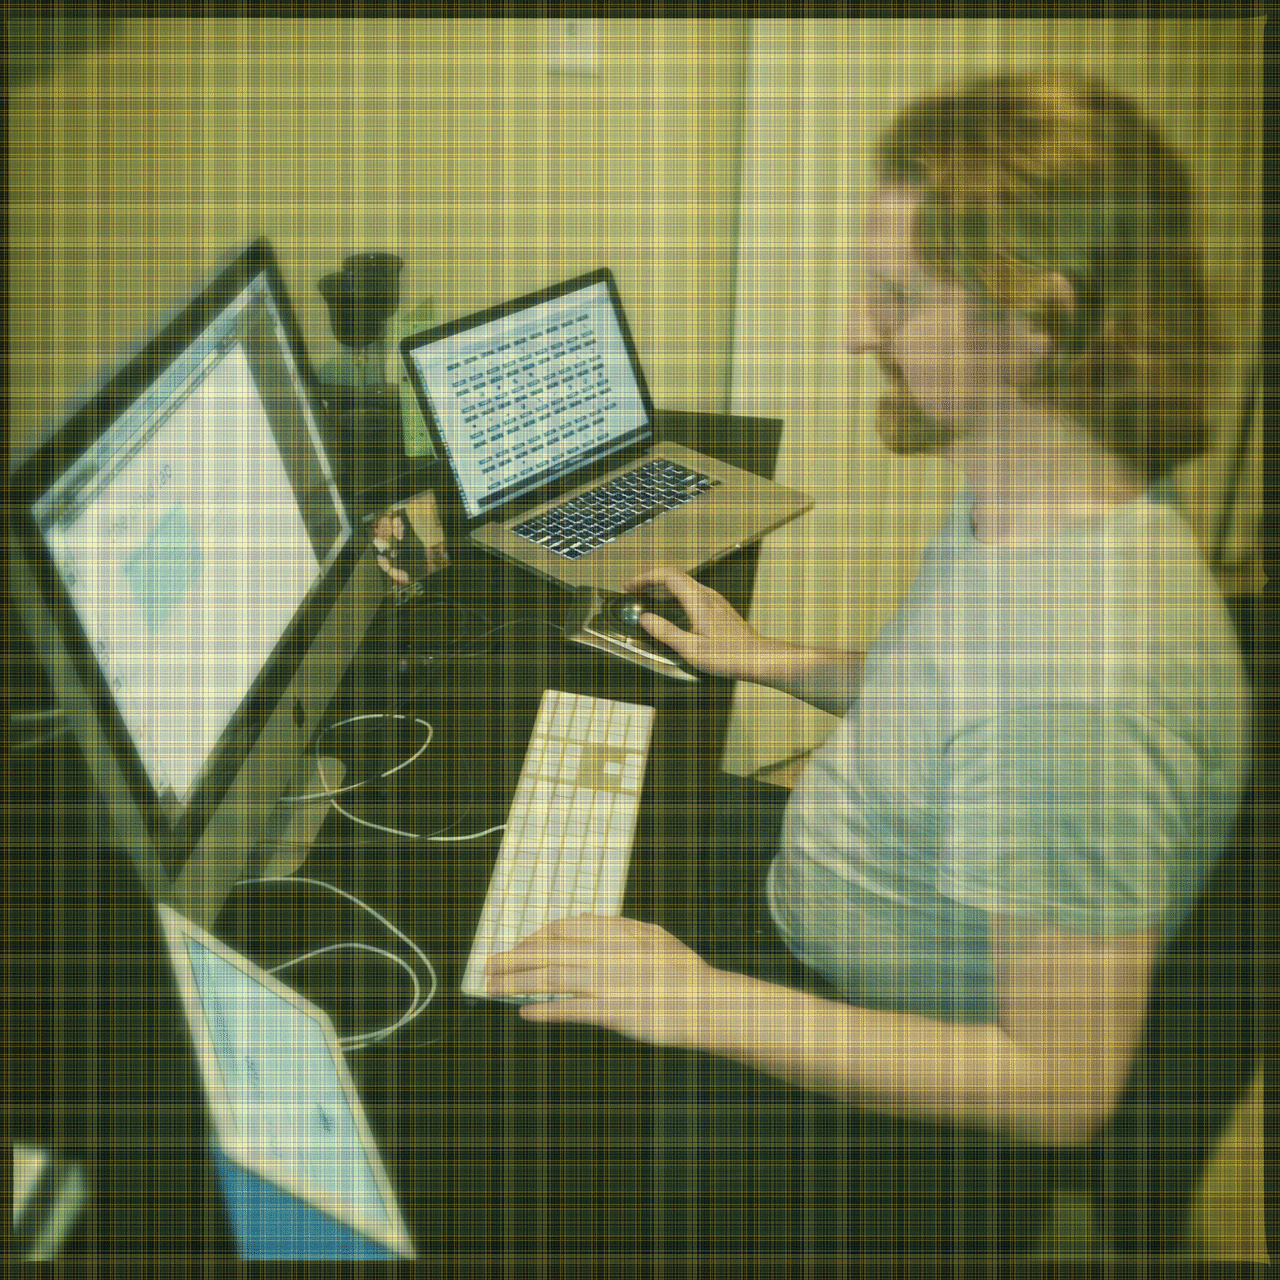
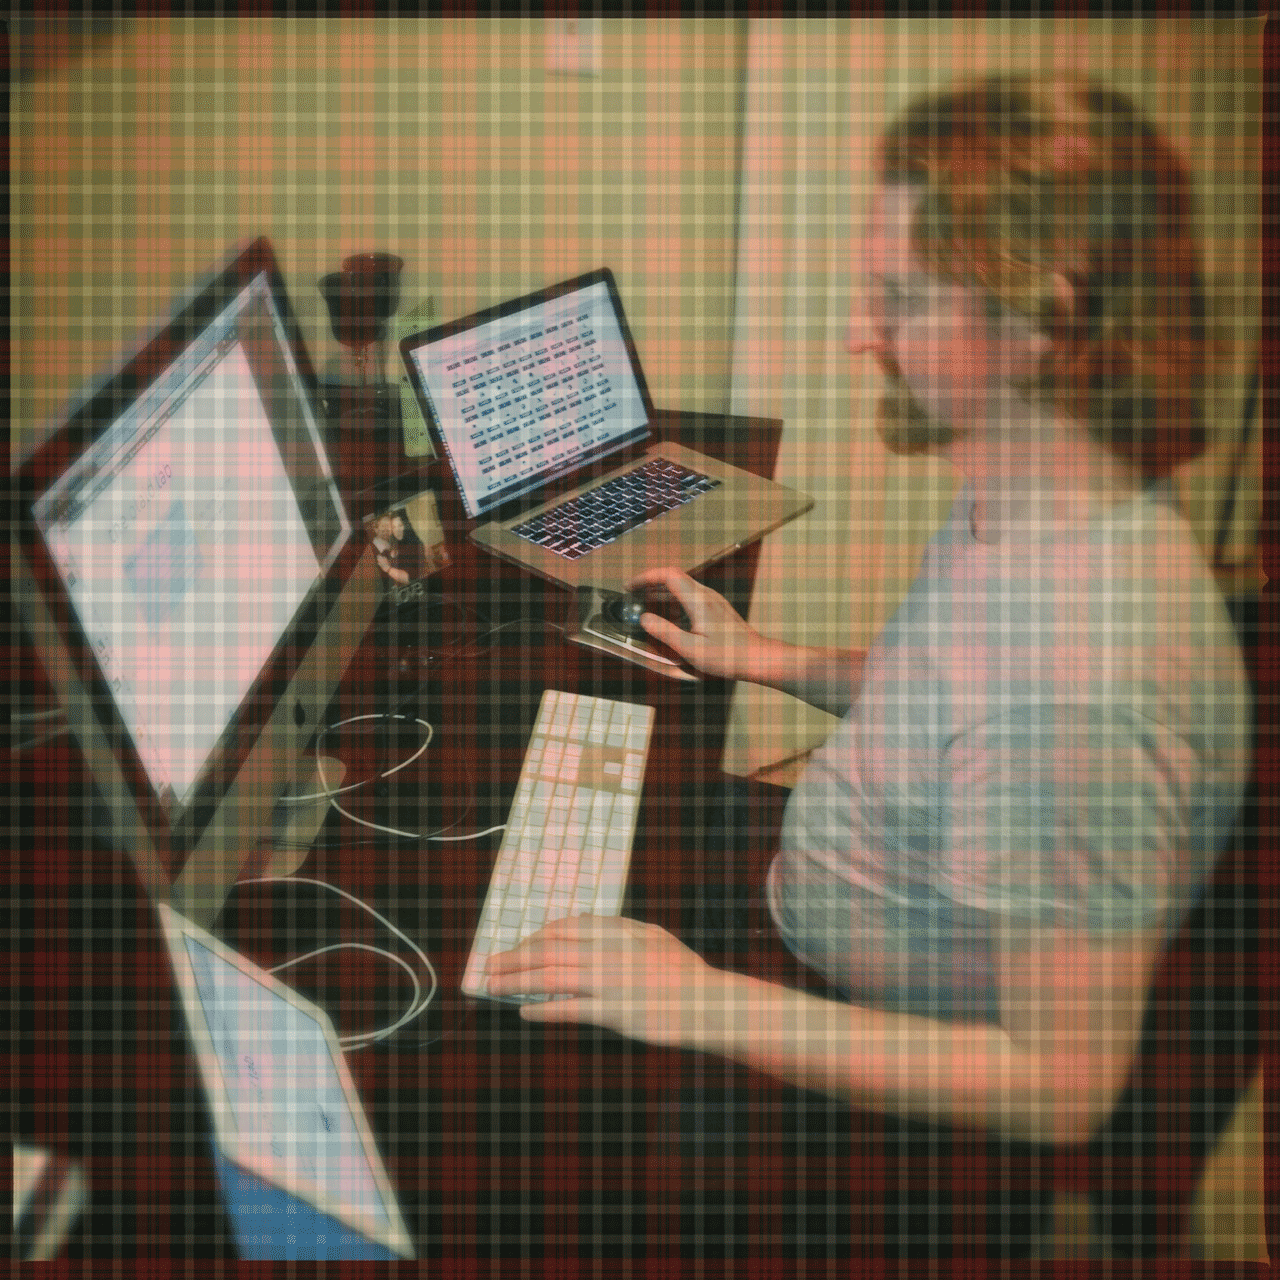
redder plaid, copy changes

diff --git a/public_html/theplaidlab/public/stylesheets/master.css b/public_html/theplaidlab/public/stylesheets/master.css
@@ -2,11 +2,11 @@ html,body,div,span,applet,object,iframe,h1,h2,h3,h4,h5,h6,p,blockquote,pre,a,abb
 article,aside,details,figcaption,figure,footer,header,hgroup,main,menu,nav,section{display:block}
 body{background:#eee url("/images/domAtDesk.png") top center no-repeat fixed}
 main{font-family:"myriad-pro","Arial",sans-serif;font-size:1rem;line-height:1.5;margin:16px auto;max-width:94%;padding:0;width:64em;}
-main h1,main .h1{display:inline-block;font-family:"ff-cocon-web-pro","Helvetica",sans-serif;font-size:5rem;line-height:1.5;margin:.446em 0;}
-main h2,main .h2{font-family:ff-cocon-web-pro;font-size:2rem;line:height 1;margin:0 0 .809em 0;}
-main h3,main .h3{font-size:1.125rem;line-height:1;margin:1.211em 0;}
-main h4,main .h4{font-size:1rem;margin:1.125em 0;}
-main p,main .p{font-size:1rem;line-height:1.5;margin:0 0 1.362em 0;}
+main h1,main .h1{display:inline-block;font-family:"ff-cocon-web-pro","Helvetica",sans-serif;font-size:80px;font-size:5rem;line-height:1.5;margin:.446em 0;}
+main h2,main .h2{font-family:ff-cocon-web-pro;font-size:32px;font-size:2rem;line:height 1;margin:0 0 .809em 0;}
+main h3,main .h3{font-size:18px;font-size:1.125rem;line-height:1;margin:1.211em 0;}
+main h4,main .h4{font-size:16px;font-size:1rem;margin:1.125em 0;}
+main p,main .p{font-size:16px;font-size:1rem;line-height:1.5;margin:0 0 1.362em 0;}
 main dt,main .dt{font-weight:bold}
 main h1,main h2,main h3,main .leader{text-rendering:optimizeLegibility}
 .intro{margin-bottom:0}
@@ -18,18 +18,19 @@ main h1,main h2,main h3,main .leader{text-rendering:optimizeLegibility}
 #weeMobileContent{display:none}
 .contentColumn,.contentCallout{background-color:#ddd;display:inline-block;opacity:.9;filter:alpha(opacity=90);-ms-filter:"progid:DXImageTransform.Microsoft.Alpha(Opacity=90)";padding:1.362em 2.129%;vertical-align:top}
 .contentColumn{margin-right:6.614%;width:42.578%;}
-.contentColumn .leader{font-size:1.187rem;line-height:1.5;margin:0 0 1.362em 0;}
+.contentColumn .leader{font-size:19px;font-size:1.187rem;line-height:1.5;margin:0 0 1.362em 0;}
 .contentCallout{width:38.198%;}
 .webFormula{border:solid 2px #000;margin-top:15em;}
 .webFormula dd{margin-left:10.712%;}
 .behindTheCurtain,.currentExperiments,.portfolio{background-color:#ddd;opacity:.9;filter:alpha(opacity=90);-ms-filter:"progid:DXImageTransform.Microsoft.Alpha(Opacity=90)";margin:4.235em 0;padding:1.362em 2.129%;}
+.skillBucket{margin-top:4.6em}
 .portfolio ul,.portfolio .ul{margin:1.362em 0 1.362em 0;}
 .portfolio ul li,.portfolio .ul li,.portfolio ul .li,.portfolio .ul .li{list-style-type:disc;margin-left:4.859%;}
-.portfolio .nestedList{font-size:.875rem;margin:0;}
+.portfolio .nestedList{font-size:14px;font-size:.875rem;margin:0;}
 .portfolio .nestedList .nestedlistItem{margin-left:6.62%;}
 *[data-module="slideshow"] .mobileNav{display:none}
 *[data-module="slideshow"] .portfolioHeading,*[data-module="slideshow"] .desktopNav{display:inline-block}
-*[data-module="slideshow"] .desktopNav{text-align:right;width:81.649%;}
+*[data-module="slideshow"] .desktopNav{text-align:right;width:75%}
 *[data-module="slideshow"] *[data-control="stage"]{display:inline-block;overflow:hidden;width:91.796%;}
 *[data-module="slideshow"] .itemsWrapper{-webkit-transition:.5s all linear;-moz-transition:.5s all linear;-o-transition:.5s all linear;-ms-transition:.5s all linear;transition:.5s all linear;width:500%;}
 *[data-module="slideshow"] *[data-display-item]{display:inline-block;margin:0 .425%;vertical-align:top;width:19.148%;}
